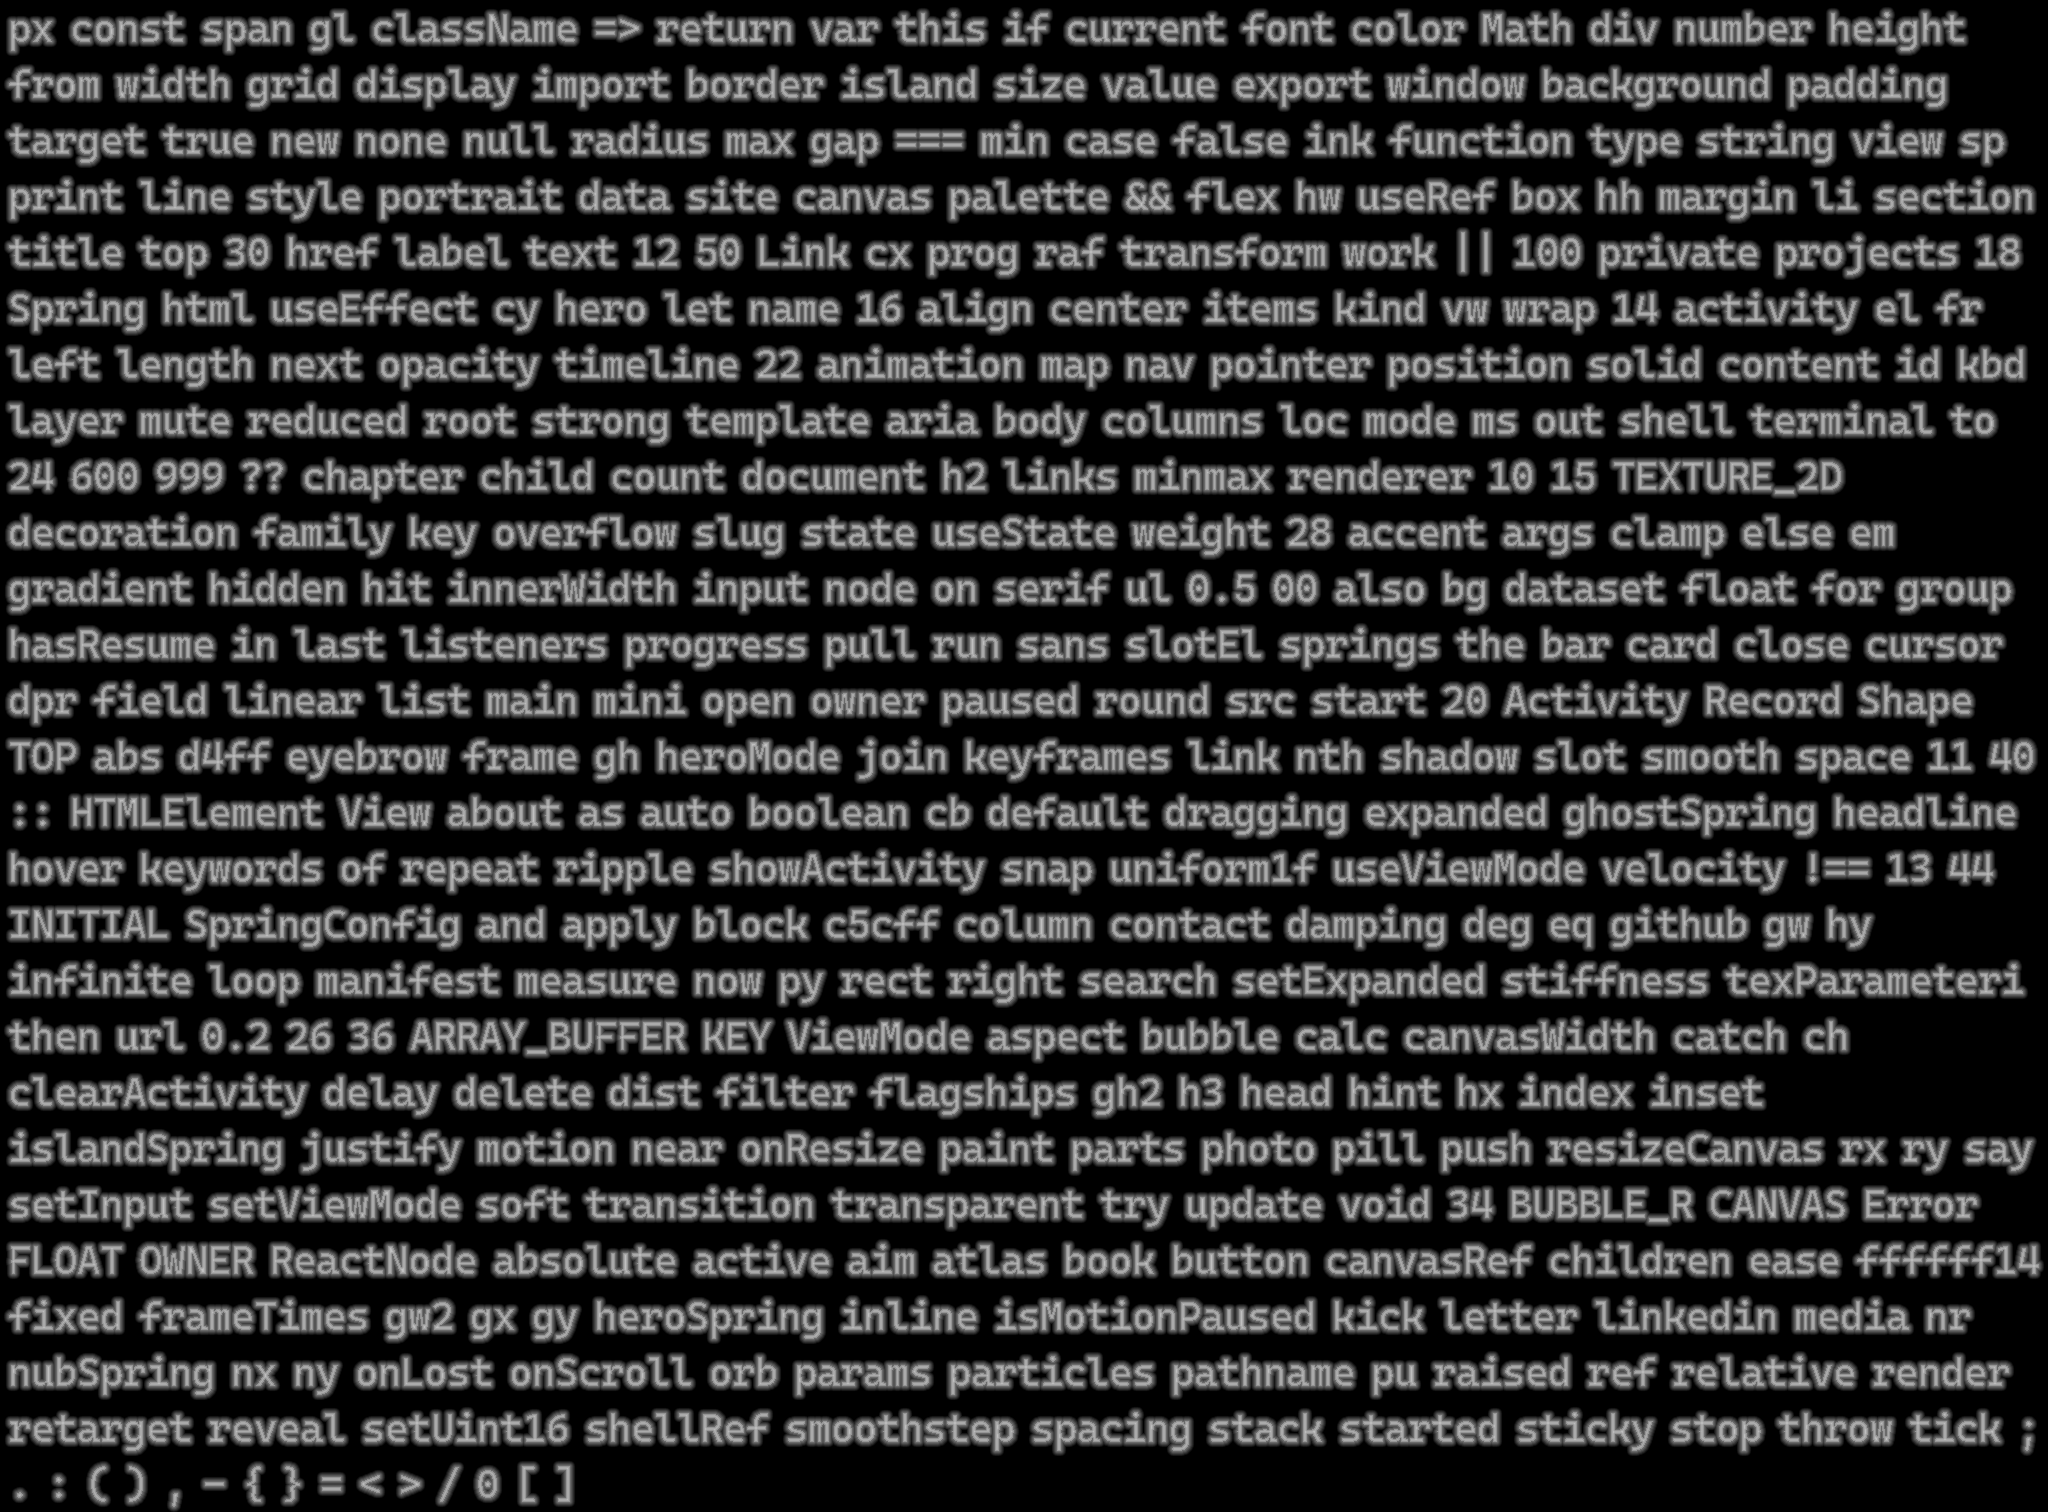
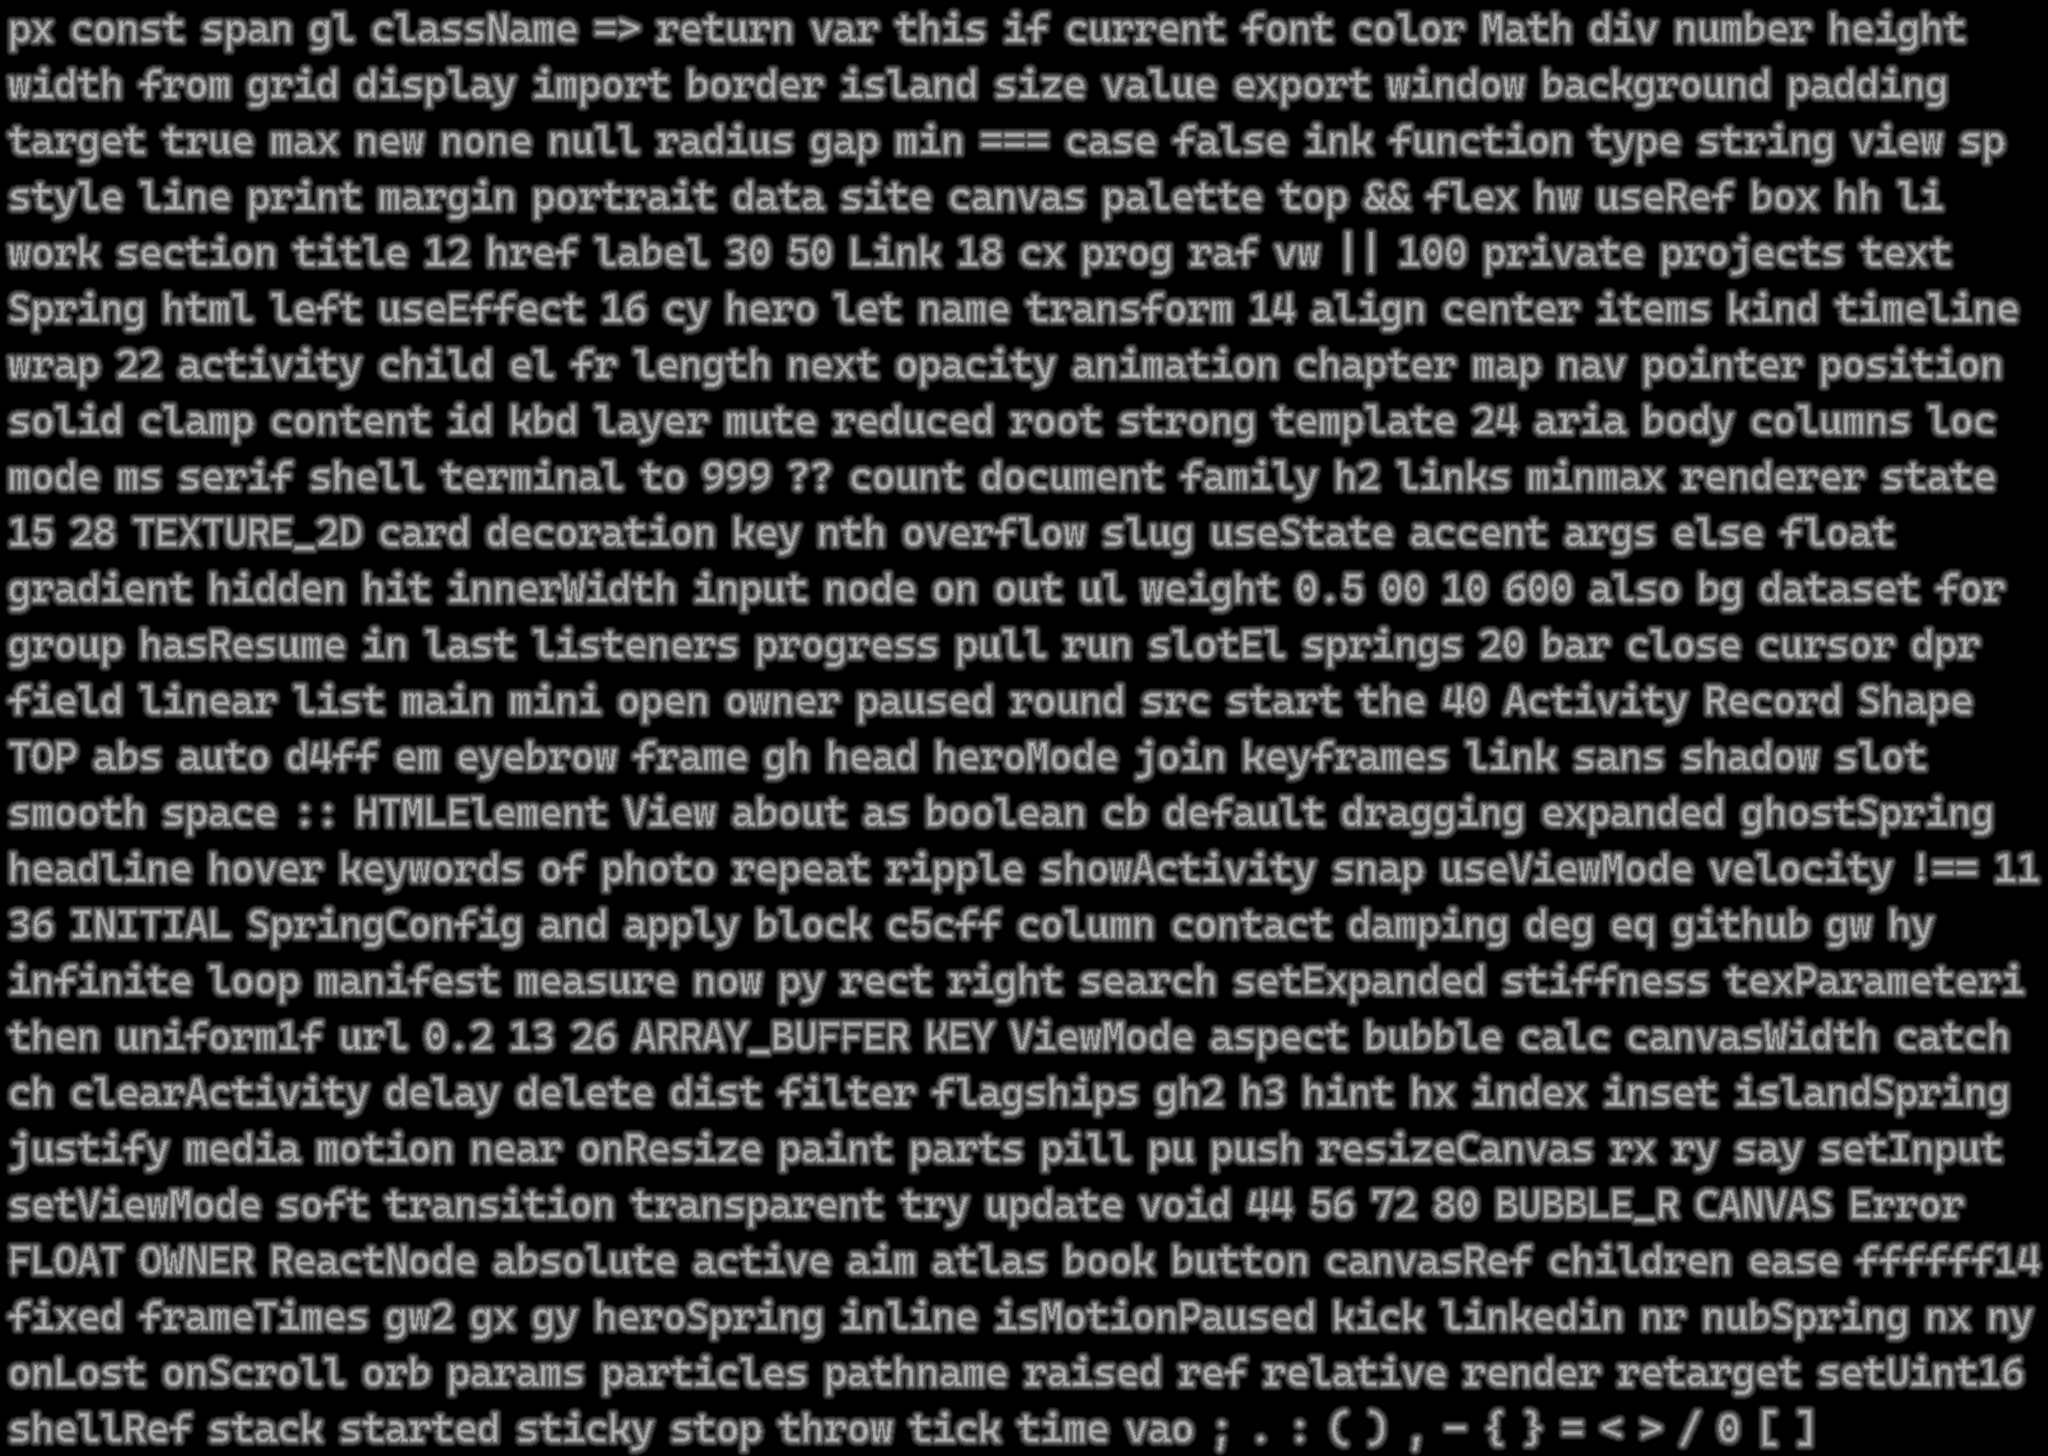
Cinematic type and a human voice
- Instrument Serif for display (larger, tighter, often italic) and
  Manrope for reading; monospace stays in the terminal and portrait
- Labels are quiet italic phrases instead of tracked capitals:
  "a software engineer", "the ones I'm proudest of", "the work",
  "where the island began", "the person behind it", "the story so
  far", "a little about me", "and a few more", "say hello"
- Portrait chapter headline: "One person. Every layer."
- By-eye offsets on desktop: chapter heads and cards settle at
  slightly different positions instead of a strict grid
- Portrait tokens regenerated from the current source

diff --git a/src/app/page.tsx b/src/app/page.tsx
@@ -28,7 +28,7 @@ export default function Home() {
       <section className="hero" data-island-slot="hero" aria-labelledby="hero-title">
         <div className="wrap hero-grid">
           <div className="hero-copy">
-            <p className="eyebrow">{site.role}</p>
+            <p className="eyebrow">a software engineer</p>
             <h1 id="hero-title" className="display" data-island-hero>
               Sahaj <em>Alatage</em>
             </h1>
@@ -36,7 +36,7 @@ export default function Home() {
             <ContactLinks />
           </div>
           <div>
-            <p className="eyebrow" style={{ marginBottom: 14 }}>Selected work</p>
+            <p className="eyebrow" style={{ marginBottom: 14 }}>the ones I&rsquo;m proudest of</p>
             <ul className="flagships">
               {flagships.map((p) => (
                 <li key={p.slug}>
@@ -55,9 +55,9 @@ export default function Home() {
       <section id="work" className="chapter" data-island-slot="work" aria-labelledby="work-title">
         <div className="wrap">
           <div className="chapter-head">
-            <p className="eyebrow">Work</p>
+            <p className="eyebrow">the work</p>
             <h2 id="work-title" className="headline">
-              Things I&rsquo;ve <em>built</em>.
+              Things I&rsquo;ve <em>made</em>.
             </h2>
           </div>
           <div className="work-grid">
@@ -88,7 +88,7 @@ export default function Home() {
       <section id="float" className="chapter" data-island-slot="float" aria-labelledby="float-title">
         <div className="wrap">
           <div className="chapter-head">
-            <p className="eyebrow">FLOAT</p>
+            <p className="eyebrow">where the island began</p>
             <h2 id="float-title" className="headline">
               The island at the top of this page <em>started on Windows</em>.
             </h2>
@@ -150,9 +150,9 @@ export default function Home() {
               <img src="/portrait.webp" alt="Sahaj Alatage in a dark suit, hand on chin" width={800} height={1000} loading="lazy" decoding="async" />
             </div>
             <div className="chapter-head" style={{ marginBottom: 0 }}>
-              <p className="eyebrow">Behind the island</p>
+              <p className="eyebrow">the person behind it</p>
               <h2 id="portrait-title" className="headline">
-                Built by one person, <em>end to end</em>.
+                One person. <em>Every layer.</em>
               </h2>
               <p className="lede">
                 Rust and Tauri on the desktop, C++ under React Native on mobile, multi-agent pipelines in Python, and
@@ -172,8 +172,8 @@ export default function Home() {
       <section id="timeline" className="chapter" data-island-slot="timeline" aria-labelledby="timeline-title">
         <div className="wrap">
           <div className="chapter-head">
-            <p className="eyebrow">Timeline</p>
-            <h2 id="timeline-title" className="headline">A busy year.</h2>
+            <p className="eyebrow">the story so far</p>
+            <h2 id="timeline-title" className="headline">A <em>busy</em> year.</h2>
           </div>
           <ol className="timeline">
             {timeline.map((t) => (
@@ -194,7 +194,7 @@ export default function Home() {
       <section id="about" className="chapter" data-island-slot="terminal" aria-labelledby="about-title">
         <div className="wrap about-grid">
           <div className="about-copy">
-            <p className="eyebrow">About</p>
+            <p className="eyebrow">a little about me</p>
             <h2 id="about-title" className="headline" style={{ color: "var(--ink)" }}>
               Professional by default. <em>Developer at heart.</em>
             </h2>
@@ -215,7 +215,7 @@ export default function Home() {
       <section className="chapter" aria-labelledby="also-title">
         <div className="wrap">
           <div className="chapter-head">
-            <p className="eyebrow">Also built</p>
+            <p className="eyebrow">and a few more</p>
             <h2 id="also-title" className="headline" style={{ fontSize: "clamp(28px, 3.6vw, 44px)" }}>On the web.</h2>
           </div>
           <ul className="also">
@@ -236,7 +236,7 @@ export default function Home() {
       {/* 7 · Contact — the island closes back into a capsule */}
       <section id="contact" className="chapter" data-island-slot="contact" aria-labelledby="contact-title">
         <div className="wrap contact">
-          <p className="eyebrow">Contact</p>
+          <p className="eyebrow">say hello</p>
           <h2 id="contact-title" className="headline">
             Let&rsquo;s build something <em>that feels effortless</em>.
           </h2>

diff --git a/src/app/globals.css b/src/app/globals.css
@@ -83,27 +83,27 @@ h1, h2, h3 { margin: 0; font-weight: 400; }
   padding: 0 var(--gutter);
 }
 
+/* Quiet italic phrases instead of tracked capitals — spoken, not stamped. */
 .eyebrow {
-  font-family: var(--sans);
-  font-size: 12px;
-  font-weight: 600;
-  letter-spacing: 0.22em;
-  text-transform: uppercase;
+  font-family: var(--serif);
+  font-style: italic;
+  font-size: clamp(18px, 1.6vw, 21px);
+  line-height: 1.2;
   color: var(--ink-mute);
 }
 
 .display {
   font-family: var(--serif);
-  font-size: clamp(44px, 8vw, 104px);
-  line-height: 0.98;
-  letter-spacing: -0.02em;
+  font-size: clamp(56px, 10vw, 136px);
+  line-height: 0.9;
+  letter-spacing: -0.01em;
 }
 
 .headline {
   font-family: var(--serif);
-  font-size: clamp(34px, 5.2vw, 64px);
-  line-height: 1.04;
-  letter-spacing: -0.015em;
+  font-size: clamp(40px, 6.2vw, 80px);
+  line-height: 0.98;
+  letter-spacing: -0.005em;
 }
 
 .headline em, .display em { font-style: italic; color: var(--accent); }
@@ -271,11 +271,9 @@ html[data-palette="on"] .island-canvas { opacity: 0 !important; pointer-events: 
   scrollbar-width: thin;
 }
 .palette-group {
-  margin: 10px 10px 6px;
-  font: 600 11px/1 var(--sans);
-  letter-spacing: 0.16em;
-  text-transform: uppercase;
-  color: #7a7a86;
+  margin: 12px 12px 6px;
+  font: italic 400 16px/1 var(--serif);
+  color: #8b8b99;
 }
 .palette-item {
   display: flex;
@@ -537,20 +535,19 @@ html[data-palette="on"] .island-canvas { opacity: 0 !important; pointer-events: 
 
 .work-card h3 {
   font-family: var(--serif);
-  font-size: clamp(30px, 3.4vw, 44px);
-  line-height: 1.05;
+  font-size: clamp(36px, 4.2vw, 56px);
+  line-height: 0.98;
 }
 
 /* Expansion of an acronym project name, e.g. HARIKA. */
 .full-name {
-  margin-top: 6px;
-  font-size: 12px;
-  font-weight: 600;
-  letter-spacing: 0.14em;
-  text-transform: uppercase;
+  margin-top: 4px;
+  font-family: var(--serif);
+  font-style: italic;
+  font-size: 17px;
   color: var(--ink-mute);
 }
-.case-hero .full-name { margin-top: -10px; font-size: 13px; }
+.case-hero .full-name { margin-top: -8px; font-size: clamp(18px, 2vw, 24px); }
 
 .work-card .tagline { color: var(--ink-soft); font-size: 18px; max-width: 34ch; margin-top: 10px; }
 .work-card .context { color: var(--ink-mute); font-size: 14px; margin-top: 12px; }
@@ -862,6 +859,19 @@ html[data-view="live"] .island:focus-within { opacity: 1; }
 .case-nav a span { color: var(--ink-mute); font-size: 14px; }
 .case-nav a strong { font-family: var(--serif); font-size: 26px; font-weight: 400; }
 .case-nav a:last-child { text-align: right; }
+
+/* ── By-eye offsets: arranged like a designer would, not a spreadsheet ── */
+
+@media (min-width: 901px) {
+  #work .chapter-head { padding-left: clamp(0px, 5vw, 72px); }
+  #float .chapter-head { margin-left: auto; max-width: 820px; }
+  #timeline .chapter-head { padding-left: clamp(0px, 12vw, 180px); }
+  /* Cards settle at slightly different heights. */
+  .work-card:nth-child(2) { margin-top: 28px; }
+  .work-card:nth-child(4) { margin-top: -20px; }
+  .work-card:nth-child(5) { margin-top: 14px; }
+  .state:nth-child(even) { margin-top: 22px; }
+}
 
 /* ── Responsive ─────────────────────────────────────────────── */
 

diff --git a/src/app/layout.tsx b/src/app/layout.tsx
@@ -1,5 +1,5 @@
 import type { Metadata, Viewport } from "next";
-import { Inter, JetBrains_Mono, Newsreader } from "next/font/google";
+import { Instrument_Serif, JetBrains_Mono, Manrope } from "next/font/google";
 import { Analytics } from "@vercel/analytics/next";
 import { SpeedInsights } from "@vercel/speed-insights/next";
 import { hasResume } from "@/components/ContactLinks";
@@ -9,8 +9,9 @@ import { MotionToggle, ViewToggle } from "@/components/ViewToggle";
 import { site } from "@/content/site";
 import "./globals.css";
 
-const serif = Newsreader({ subsets: ["latin"], style: ["normal", "italic"], variable: "--font-serif", display: "swap" });
-const sans = Inter({ subsets: ["latin"], variable: "--font-sans", display: "swap" });
+// Cinematic display serif for the big words; a warm humanist sans for reading.
+const serif = Instrument_Serif({ subsets: ["latin"], weight: "400", style: ["normal", "italic"], variable: "--font-serif", display: "swap" });
+const sans = Manrope({ subsets: ["latin"], variable: "--font-sans", display: "swap" });
 const mono = JetBrains_Mono({ subsets: ["latin"], variable: "--font-mono", display: "swap" });
 
 export const metadata: Metadata = {

diff --git a/src/app/not-found.tsx b/src/app/not-found.tsx
@@ -4,11 +4,11 @@ export default function NotFound() {
   return (
     <section className="hero" data-island-slot="hero" aria-labelledby="nf-title">
       <div className="wrap hero-copy">
-        <p className="eyebrow">404</p>
+        <p className="eyebrow">404 — this page drifted off</p>
         <h1 id="nf-title" className="display">
           Nothing <em>here</em>.
         </h1>
-        <p className="lede">This page drifted off the island. The work is still where you left it.</p>
+        <p className="lede">The work is still where you left it.</p>
         <ul className="hero-links">
           <li><Link className="pill-link primary" href="/">Back home</Link></li>
           <li><Link className="pill-link" href="/#work">See the work</Link></li>
